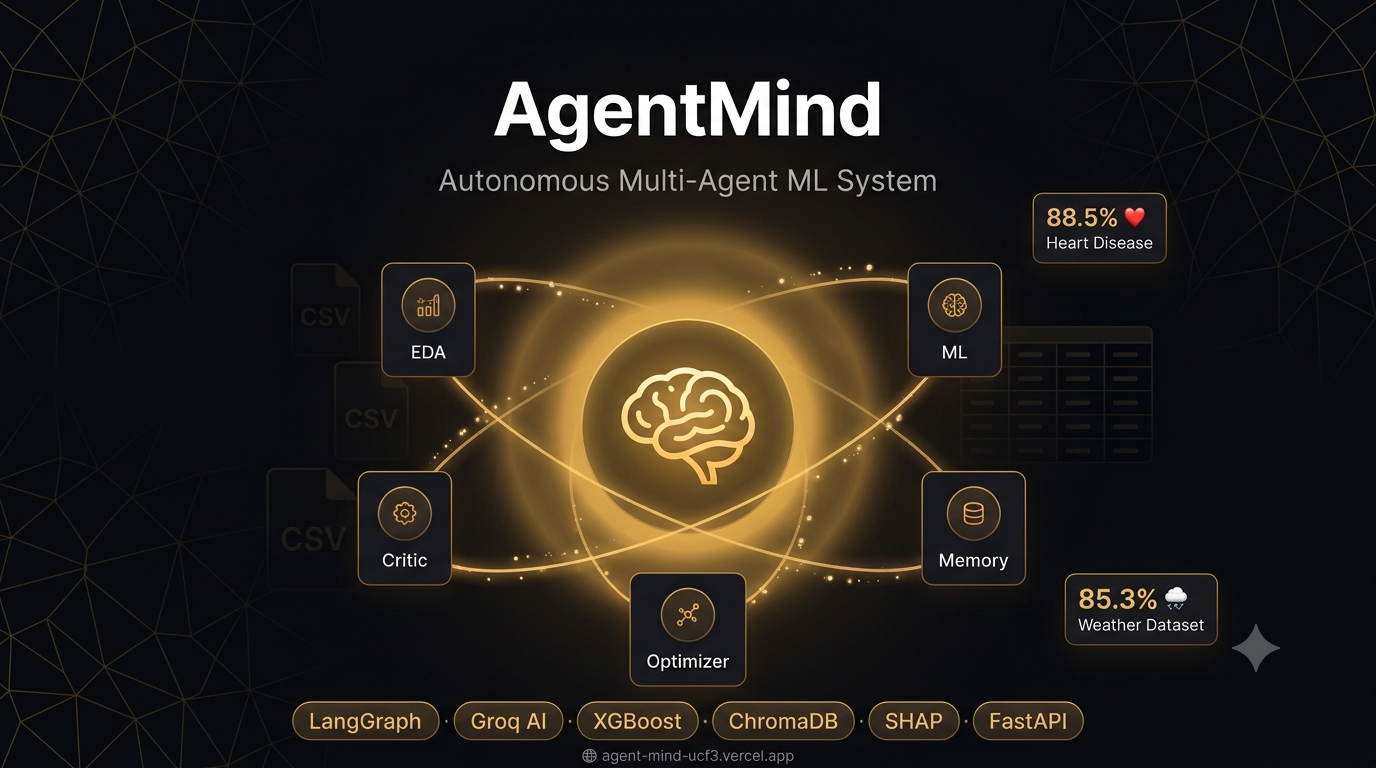
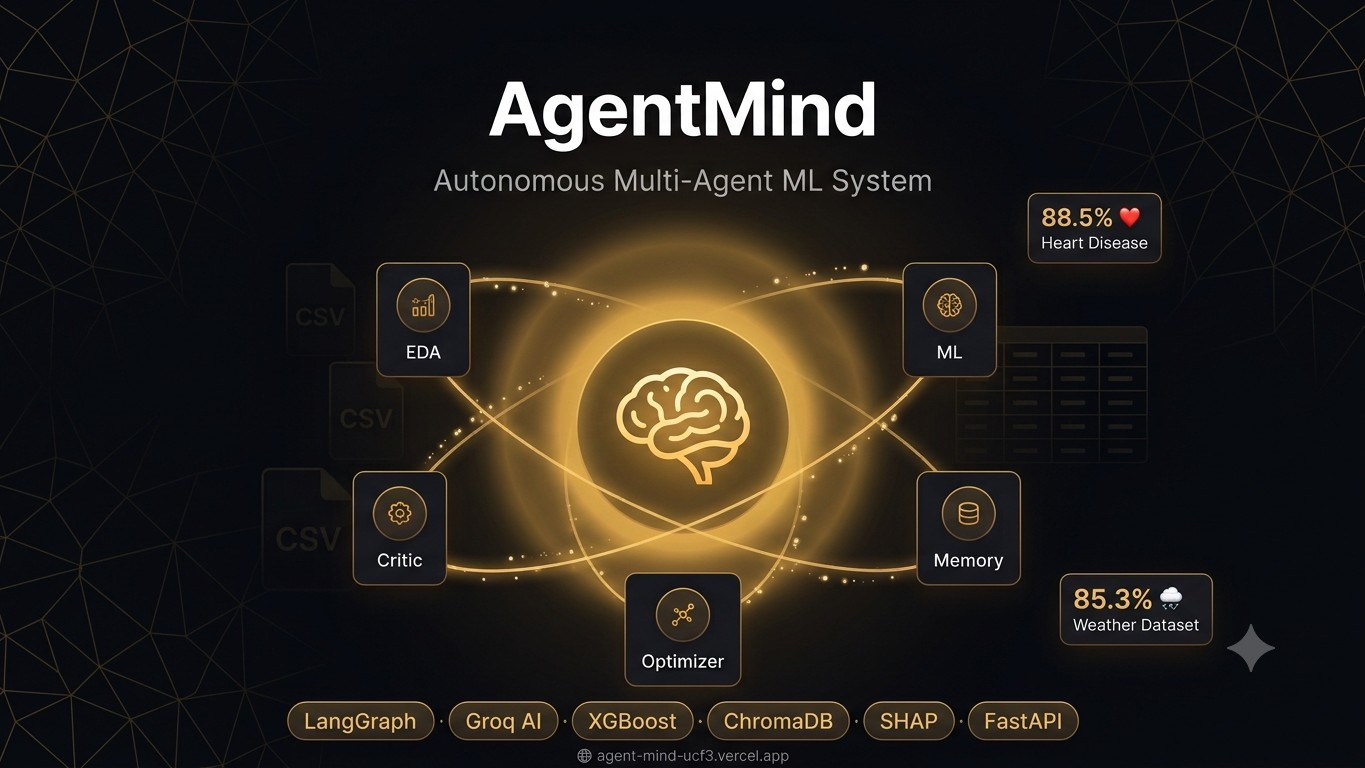
Fix AgentMind project image to fit inside card

diff --git a/src/components/sections/Projects.tsx b/src/components/sections/Projects.tsx
@@ -82,14 +82,7 @@ function FeaturedProjectCard({
     >
       <div className="pointer-events-none absolute inset-0 bg-gradient-to-br from-primary/12 via-transparent to-accent/10 opacity-90" aria-hidden />
       <div className="relative grid gap-8 lg:grid-cols-[minmax(0,1.05fr)_minmax(0,1fr)] lg:items-stretch lg:gap-10">
-        <ProjectImage
-          project={project}
-          className={
-            project.imageFit === "contain"
-              ? "aspect-video lg:min-h-0"
-              : "aspect-[16/10] lg:aspect-auto lg:min-h-[280px]"
-          }
-        />
+        <ProjectImage project={project} className="aspect-[16/10] lg:aspect-auto lg:min-h-[280px]" />
         <div className="flex flex-col px-6 pb-8 pt-2 sm:px-8 lg:py-8 lg:pr-10">
           <span className="mb-3 inline-flex w-fit items-center rounded-full border border-secondary/35 bg-primary/10 px-3 py-1 text-[11px] font-semibold uppercase tracking-[0.14em] text-secondary">
             Featured project
@@ -141,7 +134,6 @@ function ProjectCard({
 
 function ProjectImage({ project, className }: { project: (typeof projects)[number]; className?: string }) {
   const reduceMotion = useReducedMotion();
-  const fitContain = project.imageFit === "contain";
 
   return (
     <motion.div
@@ -155,16 +147,11 @@ function ProjectImage({ project, className }: { project: (typeof projects)[numbe
         src={project.imageSrc}
         alt=""
         fill
-        className={cn(
-          "object-center transition duration-700 ease-out group-hover:scale-[1.04]",
-          fitContain ? "object-contain p-3 sm:p-4" : "object-cover",
-        )}
+        className="object-cover object-center transition duration-700 ease-out group-hover:scale-[1.04]"
         sizes="(min-width: 1024px) 50vw, 100vw"
         unoptimized={project.imageSrc.endsWith(".svg")}
       />
-      {!fitContain ? (
-        <div className="pointer-events-none absolute inset-0 bg-gradient-to-t from-background/85 via-transparent to-transparent opacity-80 lg:opacity-60" />
-      ) : null}
+      <div className="pointer-events-none absolute inset-0 bg-gradient-to-t from-background/85 via-transparent to-transparent opacity-80 lg:opacity-60" />
       <p className="sr-only">
         Screenshot placeholder. Replace the file at {project.imageSrc} or point imageSrc to your asset in
         src/data/portfolio.ts.

diff --git a/src/data/portfolio.ts b/src/data/portfolio.ts
@@ -365,8 +365,6 @@ export type ProjectEntry = {
   highlights: readonly string[];
   /** Image under `public/` — swap for real screenshots when available. */
   imageSrc: string;
-  /** How the image fills its frame. Use `"contain"` for full posters that should not be cropped. */
-  imageFit?: "cover" | "contain";
   /** Larger featured layout on wide screens. */
   featured?: boolean;
   /** Optional public links — omit both until you have real URLs (no fake links). */
@@ -415,7 +413,6 @@ export const projects: readonly ProjectEntry[] = [
       "Fully deployed and live — not just a local project",
     ],
     imageSrc: "/images/projects/agentmind.jpg",
-    imageFit: "contain",
     featured: true,
     links: {
       demo: "https://agent-mind-ucf3.vercel.app",